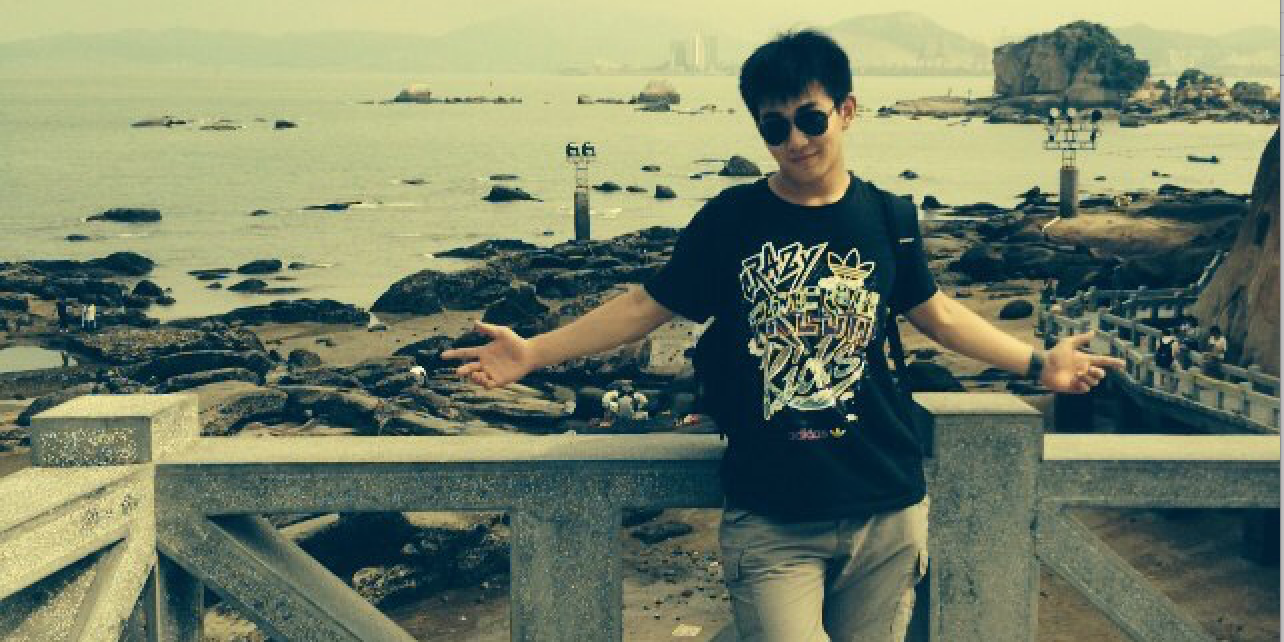
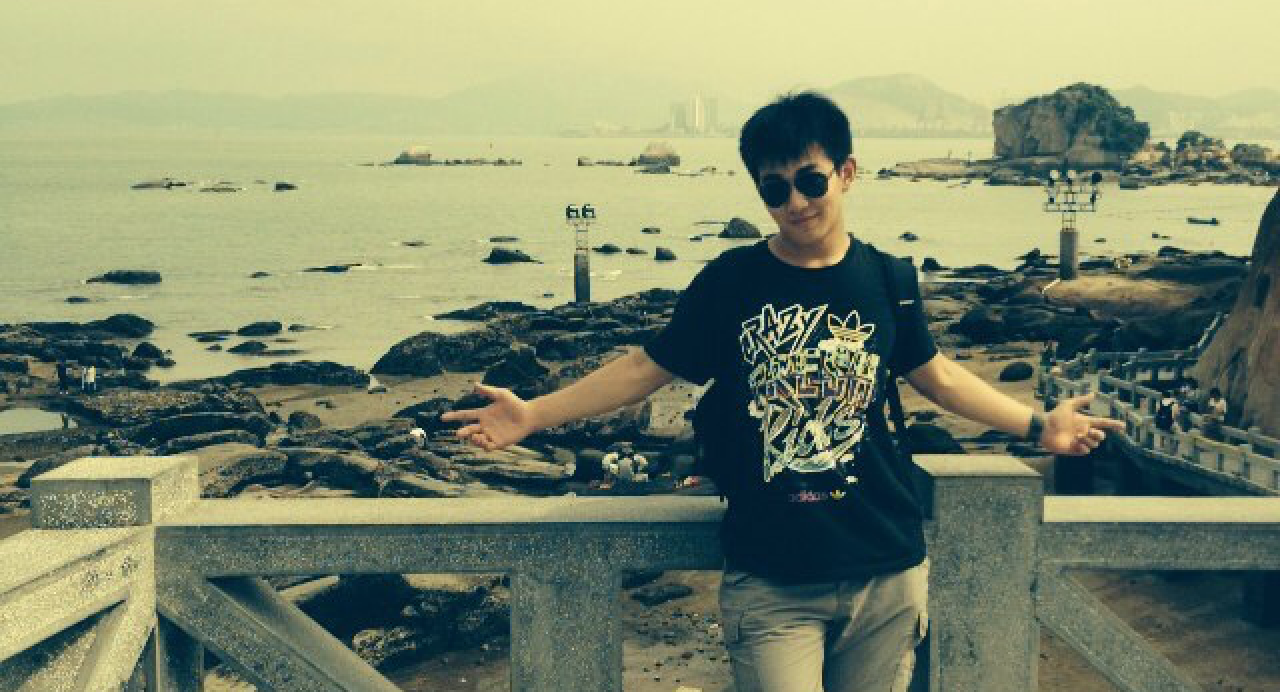
using better images

diff --git a/index.html b/index.html
@@ -18,7 +18,7 @@
 </ul>
 </div>
 <div id="slideshow">
-    <img src="images/self-photo1.jpg" class="active" />
+    <img src="images/self-photo1.png" class="active" />
     <img src="images/self-photo2.png" "/>
     <img src="images/self-photo3.png" />
 </div>
